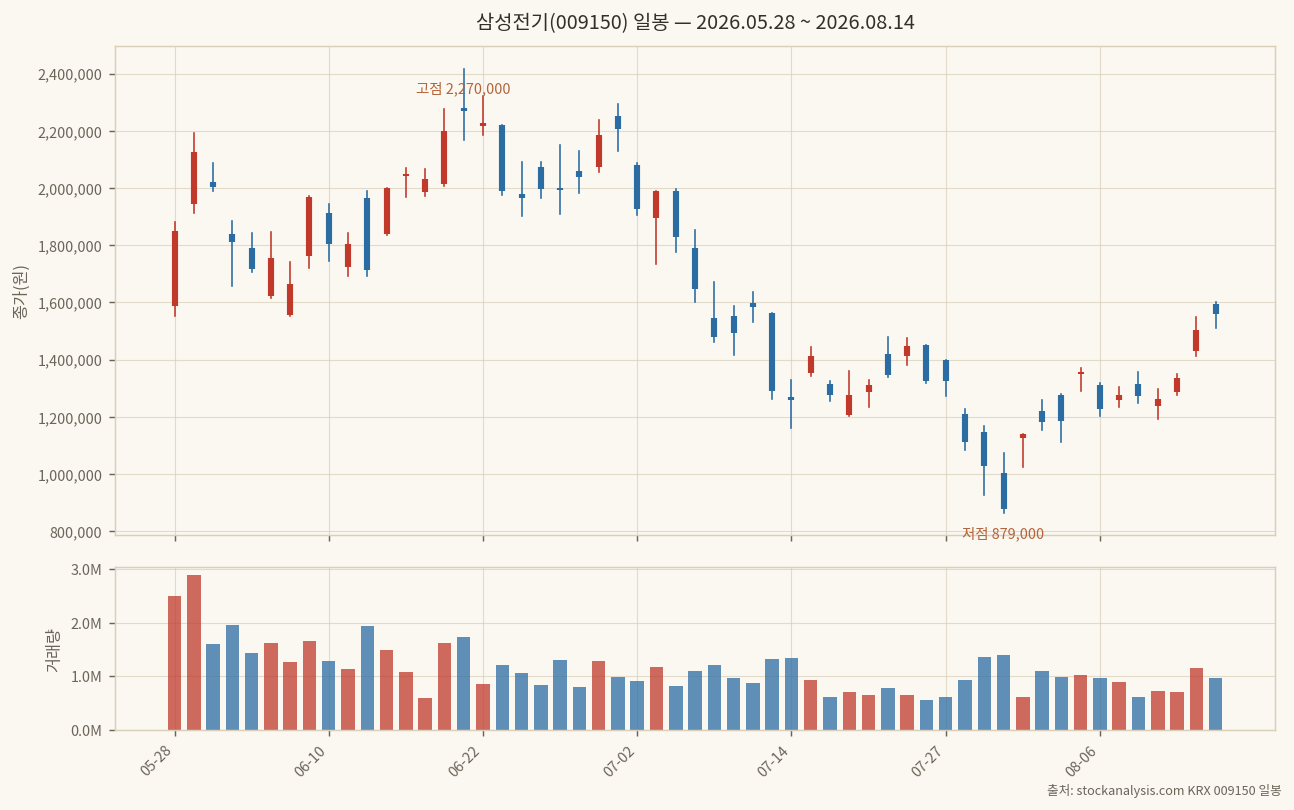
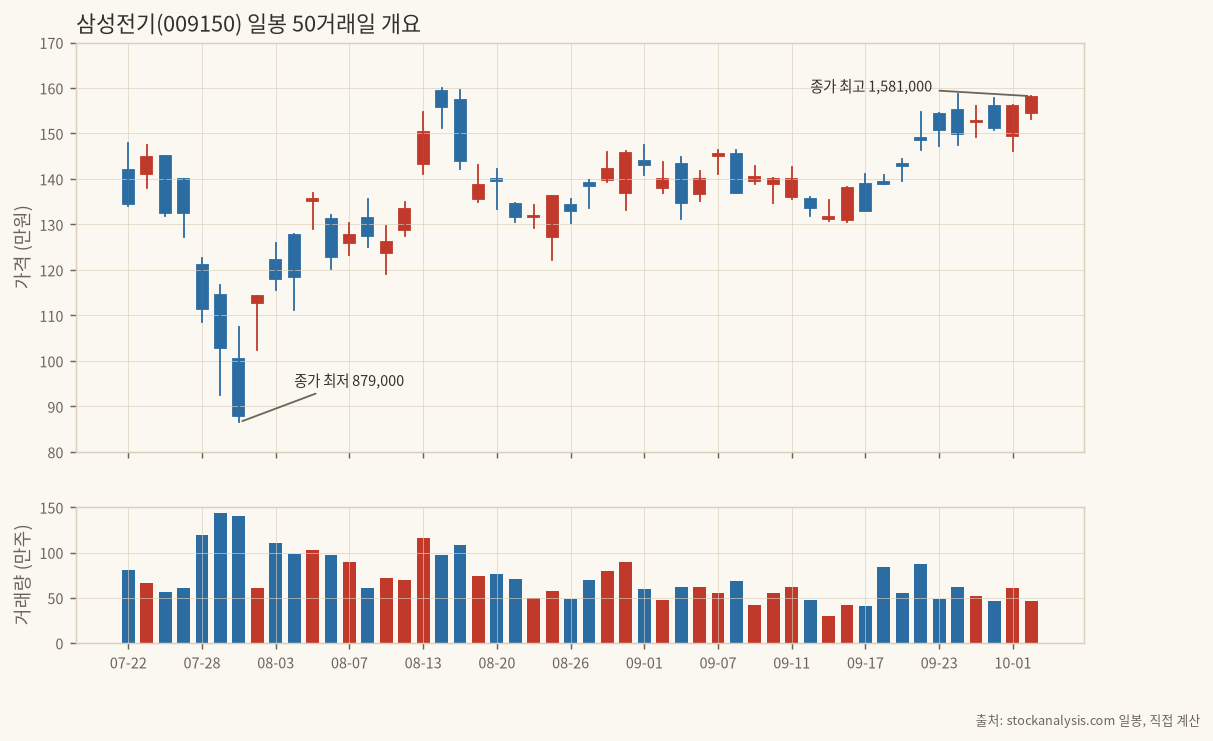
study(N48): publish 삼성전기 MA with EMA Cross

diff --git a/content/study/semco-ma-with-ema-cross.md b/content/study/semco-ma-with-ema-cross.md
@@ -1,0 +1,130 @@
+---
+title: "삼성전기, 50거래일에 신호 세 번 중 하나는 6거래일 만에 뒤집혔다: MA와 EMA 교차 (MA with EMA Cross: Samsung Electro-Mechanics, One of Three Signals Reversed Within Six Sessions)"
+description: "삼성전기 50거래일 일봉에 SMA(9)와 그 EMA(9) 교차를 적용해 신호 3번의 적중과 실패를 따졌다. Samsung Electro-Mechanics' MA with EMA Cross on 50 sessions: three signals, one whipsaw, and how length changes the count."
+date: 2026-10-03T05:00:00+09:00
+draft: false
+markets: ["stock"]
+tags: ["지표스터디", "기술적지표", "코스피", "자동매매", "반도체", "삼성전기"]
+summary: "삼성전기 SMA(9)와 EMA(9) 교차는 50거래일에 3번 나왔고, 9월 14일 하향 신호는 6거래일 뒤 11.14% 높은 가격에서 뒤집혔다."
+---
+
+## 서론: 이동평균을 다시 한 번 평활하면
+
+이동평균선 하나만 그려 놓고 가격이 선을 넘는지 보는 방법은 흔하다. 이 지표는 한 단계를 더 얹는다. 종가의 단순이동평균(SMA)을 먼저 구하고, 그 결과에 지수이동평균(EMA)을 한 번 더 입힌다. 두 선이 서로 엇갈릴 때를 신호로 읽는다. 가격 자체와 이평선이 아니라 이평선과 그 이평선의 그림자가 교차하므로, 가격이 선을 슬쩍 넘었다 돌아오는 잡음은 어느 정도 걸러진다. 대신 늦는다. 얼마나 늦는지가 이 글의 질문이다.
+
+삼성전기를 고른 이유는 구간의 모양이다. 7월 말에 며칠 만에 크게 빠졌다가 8월에 급반등했고, 9월에는 좁은 박스에서 움직이다 다시 올랐다. 급락, 급반등, 횡보, 재상승이 50거래일 안에 다 들어 있어서 교차 지표가 어디서 맞고 어디서 틀리는지 보기 좋다. 같은 종목의 앞선 지표 글이 있다면 거기서 쓴 구간과는 다른 최근 데이터다.
+
+<div class="term">
+<div class="term-bar"><i></i><i></i><i></i><em>이 글의 데이터 범위</em></div>
+<pre><code><span class="w">종목</span>      삼성전기 (009150)
+<span class="w">구간</span>      2026-07-22 ~ 2026-10-02, 50거래일
+<span class="w">출처</span>      stockanalysis.com 일봉 (서로 다른 두 요청에서 50행 전부 일치)
+<span class="c">--------------------------------------------------</span>
+<span class="w">최고가</span>    1,600,000원 (08-14 장중)
+<span class="w">최저가</span>    865,000원 (07-30 장중)
+<span class="w">종가</span>      1,581,000원 (10-02)
+<span class="w">낙폭</span>      07-23 종가 1,448,000원 에서 07-30 종가 879,000원 까지 <span class="r">-39.30%</span></code></pre>
+</div>
+
+> 이 글은 과거 데이터를 계산한 학습 기록이며 투자 권유가 아니다. 매매 판단과 손익은 전적으로 본인 책임이다.
+
+![개요 차트](/img/study/semco-01-overview.png)
+
+## 본론: 계산, 실측, 검증
+
+### 정의와 계산식
+
+계산은 numpy 로 직접 구현했고 지표 라이브러리는 쓰지 않았다. 식은 세 줄이다.
+
+<div class="term">
+<div class="term-bar"><i></i><i></i><i></i><em>MA with EMA Cross 계산식</em></div>
+<pre><code><span class="w">SMA(t)</span>   = ( C(t) + C(t-1) + ... + C(t-8) ) / 9
+<span class="w">k</span>        = 2 / (9 + 1) = 0.2
+<span class="w">EMA(t)</span>   = k * SMA(t) + (1 - k) * EMA(t-1)
+<span class="w">차이(t)</span>  = SMA(t) - EMA(t)
+<span class="c">--------------------------------------------------</span>
+<span class="g">상향 교차</span>  차이가 음수에서 0 이상으로 넘어간 날
+<span class="r">하향 교차</span>  차이가 양수에서 음수로 넘어간 날</code></pre>
+</div>
+
+C 는 종가다. EMA 의 첫 값은 첫 SMA 값으로 시드했다. 이 선택이 결과에 영향을 주는데, 뒤에서 따로 적는다.
+
+### 파라미터를 이렇게 골랐다
+
+SMA 길이 9와 EMA 길이 9로 잡았다. 9는 거래일로 약 두 주다. 50거래일짜리 표본에서 20 이상으로 가면 유효값이 너무 적어지고, 5처럼 짧게 가면 교차가 잦아져 잡음을 거르려는 목적과 어긋난다. 그래서 가운데 값을 기준으로 삼고, 5/5, 14/9, 20/9 를 민감도 비교용으로 따로 돌렸다.
+
+### 예열 구간 때문에 유효값이 줄었다
+
+50개 종가에서 SMA(9) 는 아홉 번째 날인 8월 3일부터 값이 나온다. 앞의 8거래일은 비어 있고, 유효한 SMA 는 42개다. EMA 는 SMA 가 생긴 날부터 시작하므로 역시 42개다. 교차 판정은 전날 값이 있어야 하니 실제로 비교 가능한 날은 41일이다. 즉 7월 22일부터 8월 2일까지의 급락 구간은 이 지표의 눈에 한 번도 들어오지 않는다.
+
+시드 문제도 있다. 첫 날 EMA 를 SMA 와 같게 두었으니 차이는 정확히 0에서 출발한다. 8월 4일부터 8월 10일까지 5거래일은 가격이 7월 30일 저점(879,000원)에서 올라오던 중인데도 SMA 가 EMA 를 밑돈다. 창에 급락 구간이 아직 많이 들어 있어서다. 이 5일의 음수는 시장의 의견이라기보다 예열의 흔적으로 보는 편이 맞다.
+
+![가격과 SMA, EMA](/img/study/semco-02-ma-ema.png)
+
+### 기준 설정(9/9)의 신호는 세 번
+
+전수 나열이다. 수익률은 신호일 종가에서 다음 반대 신호일 종가까지의 가격 변화로 쟀다.
+
+<div class="term">
+<div class="term-bar"><i></i><i></i><i></i><em>SMA(9) / EMA(9) 교차 신호 전수</em></div>
+<pre><code><span class="w">날짜</span>      <span class="w">방향</span>  <span class="w">종가</span>         <span class="w">차이</span>        <span class="w">다음 신호까지 가격</span>
+<span class="c">--------------------------------------------------</span>
+08-11     <span class="g">상향</span>  1,262,000    +16,991     <span class="g">+5.94%</span> (09-14, 1,337,000)
+09-14     <span class="r">하향</span>  1,337,000    -4,685      <span class="r">+11.14%</span> (09-22, 1,486,000)
+09-22     <span class="g">상향</span>  1,486,000    +2,054      <span class="g">+6.39%</span> (10-02, 1,581,000, 미결)</code></pre>
+</div>
+
+맞은 신호는 두 번이다. 8월 11일 상향은 9월 14일까지 5.94% 올랐고, 9월 22일 상향은 10월 2일까지 6.39% 올랐다. 후자는 아직 열려 있어 끝난 결과가 아니다.
+
+빗나간 신호는 가운데 하나다. 9월 14일 하향 교차를 보고 매도하거나 관망으로 돌아섰다면, 6거래일 뒤인 9월 22일에 가격은 11.14% 높아져 있었다. 하향 신호 다음 날인 9월 15일 종가가 1,317,000원(-1.50%)까지 내려간 것이 이 신호가 맞았던 전부다. 이후 9월 17일 종가 1,330,000원까지 눌린 뒤 반등이 이어졌고 9월 22일에 상향 교차로 뒤집혔다. 숫자로 보면 하향 교차 때 차이가 -4,685원이었고, 신호가 뒤집힐 때 차이는 +2,054원이었다. 선 사이 간격이 몇천 원 단위로 붙어 있었다는 뜻이다. 이 정도 간격에서 나온 교차는 방향의 확정으로 읽기 어렵고, 선이 서로 스쳤다는 기록으로 읽는 게 안전하다.
+
+더 큰 문제는 첫 신호의 시점이다. 8월 11일 종가는 1,262,000원으로 7월 30일 종가 879,000원보다 이미 43.57% 올라 있었다. 저점에서 8거래일이 지난 뒤였다. 9일 창에 저점이 들어 있는 한 SMA 가 빨리 따라오기 어렵고, EMA 로 한 번 더 늦춰지니 반등 초입을 잡는 도구가 되지 못했다. 8월 11일에 샀다면 10월 2일까지 25.28% 의 수익이지만, 그 전 43.57% 는 구경만 했다.
+
+![SMA와 EMA의 차이](/img/study/semco-03-diff.png)
+
+### 신호 사이의 거리가 하는 말
+
+차이 막대 그림을 보면 8월 중순에는 +97,725원(8월 18일)까지 벌어졌다가 8월 말부터 9월 중순까지 계속 줄었다. 9월 11일에는 +4,477원이었다. 가격은 9월 7일 종가 1,454,000원에서 9월 8일 1,370,000원으로 하루에 5.78% 빠졌는데도 교차는 없었다. 간격이 좁아지는 흐름은 보였지만 신호로는 나오지 않았다. 9월 14일에야 교차가 찍혔고, 그때 가격은 이미 1,337,000원이었다. 하락을 알리는 신호가 하락이 끝나갈 때 도착했고, 하락의 대부분은 이미 지나간 뒤였다.
+
+### 파라미터를 바꾸면
+
+같은 50거래일에 길이만 바꿔 돌렸다.
+
+<div class="term">
+<div class="term-bar"><i></i><i></i><i></i><em>길이별 교차 횟수와 상향 진입 결과</em></div>
+<pre><code><span class="w">SMA/EMA</span>   <span class="w">유효 SMA</span>  <span class="w">교차</span>   <span class="w">상향 진입 결과 (다음 반대 신호까지)</span>
+<span class="c">--------------------------------------------------</span>
+5 / 5     46개      7회    <span class="r">-2.80%</span>  <span class="r">-3.59%</span>  <span class="r">-4.50%</span>  <span class="g">+10.64%</span> (미결)
+9 / 9     42개      3회    <span class="g">+5.94%</span>  <span class="g">+6.39%</span> (미결)
+14 / 9    37개      3회    <span class="r">-11.51%</span> <span class="g">+6.39%</span> (미결)
+20 / 9    31개      4회    <span class="r">-0.98%</span>  <span class="g">+13.90%</span> (미결)</code></pre>
+</div>
+
+5/5 는 교차가 7번이다. 닫힌 여섯 구간의 방향 기준 손익이 전부 마이너스였다. 하향 신호를 따라 매도 쪽에 섰다면 8월 24일 신호 뒤에 가격이 7.81% 올랐고 9월 14일 신호 뒤에는 6.88% 올랐다. 짧게 잡으면 횟수가 늘고 틀린 횟수도 같이 는다.
+
+14/9 는 첫 상향 신호가 8월 13일 1,503,000원에 나왔다. 반등이 거의 끝나가던 자리여서 9월 17일 하향 신호까지 -11.51% 였다. 길게 잡으면 늦어서 고점에 들어간다. 여기서 이득을 본 건 20/9 쪽이었지만 미결 구간 +13.90% 하나가 만든 숫자다. 표본이 작아서 어느 길이가 좋다고 말할 근거는 없다. 이 표에서 확실한 건 길이를 바꾸면 신호 횟수가 3에서 7까지 달라진다는 점이고, 9월 22일 부근의 상향 교차는 14/9 와 9/9 에서 같은 날 나왔다는 점이다.
+
+![길이별 신호 비교](/img/study/semco-04-sensitivity.png)
+
+### 봇 게이트에 넣을 것인가
+
+단독 진입 조건으로는 넣지 않는다. 이유는 세 가지다. 첫째, 이번 구간에서 가장 큰 가격 변화(저점 반등 43.57%)를 신호가 지나간 뒤에 알렸다. 둘째, 박스권에서는 차이가 수천 원 단위로 붙어 있어 교차의 값어치가 낮다. 셋째, 길이를 한 칸만 바꿔도 신호 횟수가 두 배 이상 달라진다.
+
+쓴다면 방향 필터 쪽이다. 차이가 양수이고 커지는 중이면 다른 진입 신호의 크기를 키우고, 음수로 바뀌면 신규 진입을 쉬는 식이다. 다만 이것도 50거래일 하나로 검증할 수 없다. MACD 처럼 같은 계열의 지표와 겹치는 정보가 많다는 점도 걸린다.
+
+## 결론: 이번 구간에서 남길 것
+
+남길 건 두 가지다. 하나는 이 지표의 역할이다. 지나간 추세를 확인해 줄 뿐, 반등이나 하락의 초입은 알려주지 못했다. 삼성전기에서 8월 11일 신호는 저점 대비 43.57% 오른 뒤에 왔다. 다른 하나는 선 사이 간격이다. 9월 14일과 9월 22일의 교차는 차이가 -4,685원과 +2,054원일 때 나왔고, 이 정도면 신호라기보다 두 선이 겹쳐 있던 시기의 흔들림이었다. 간격이 얼마 이상일 때만 신호로 칠지 기준을 세워 다시 돌려보면 3번 중 어느 것이 남는지 알 수 있을 것이다. 이번 표본으로는 정하지 못했다.
+
+10월 2일 현재 차이는 +62,214원으로 8월 중순 이후 가장 크게 벌어져 있고, 종가는 1,581,000원으로 이 구간 최고다. 이 간격이 8월처럼 줄어들며 끝날지는 다음 구간 데이터를 받아 확인할 숙제로 남겨 둔다.
+
+이 글은 과거 데이터로 계산한 학습 기록이다. 투자 권유가 아니며 모든 판단과 책임은 독자 본인에게 있다.
+
+## 약어 풀이
+
+\* 이 글에 나온 영어 약어를 풀어 둔다.
+
+- **MA** (Moving Average): 이동평균. 일정 기간 종가의 평균을 이어 그린 선.
+- **SMA** (Simple Moving Average): 단순이동평균. 기간 내 종가를 같은 비중으로 평균낸 값.
+- **EMA** (Exponential Moving Average): 지수이동평균. 최근 값에 더 큰 비중을 주는 평균.
+- **MACD** (Moving Average Convergence Divergence): 이동평균 수렴확산. 단기와 장기 지수이동평균의 차이로 추세를 보는 지표.
